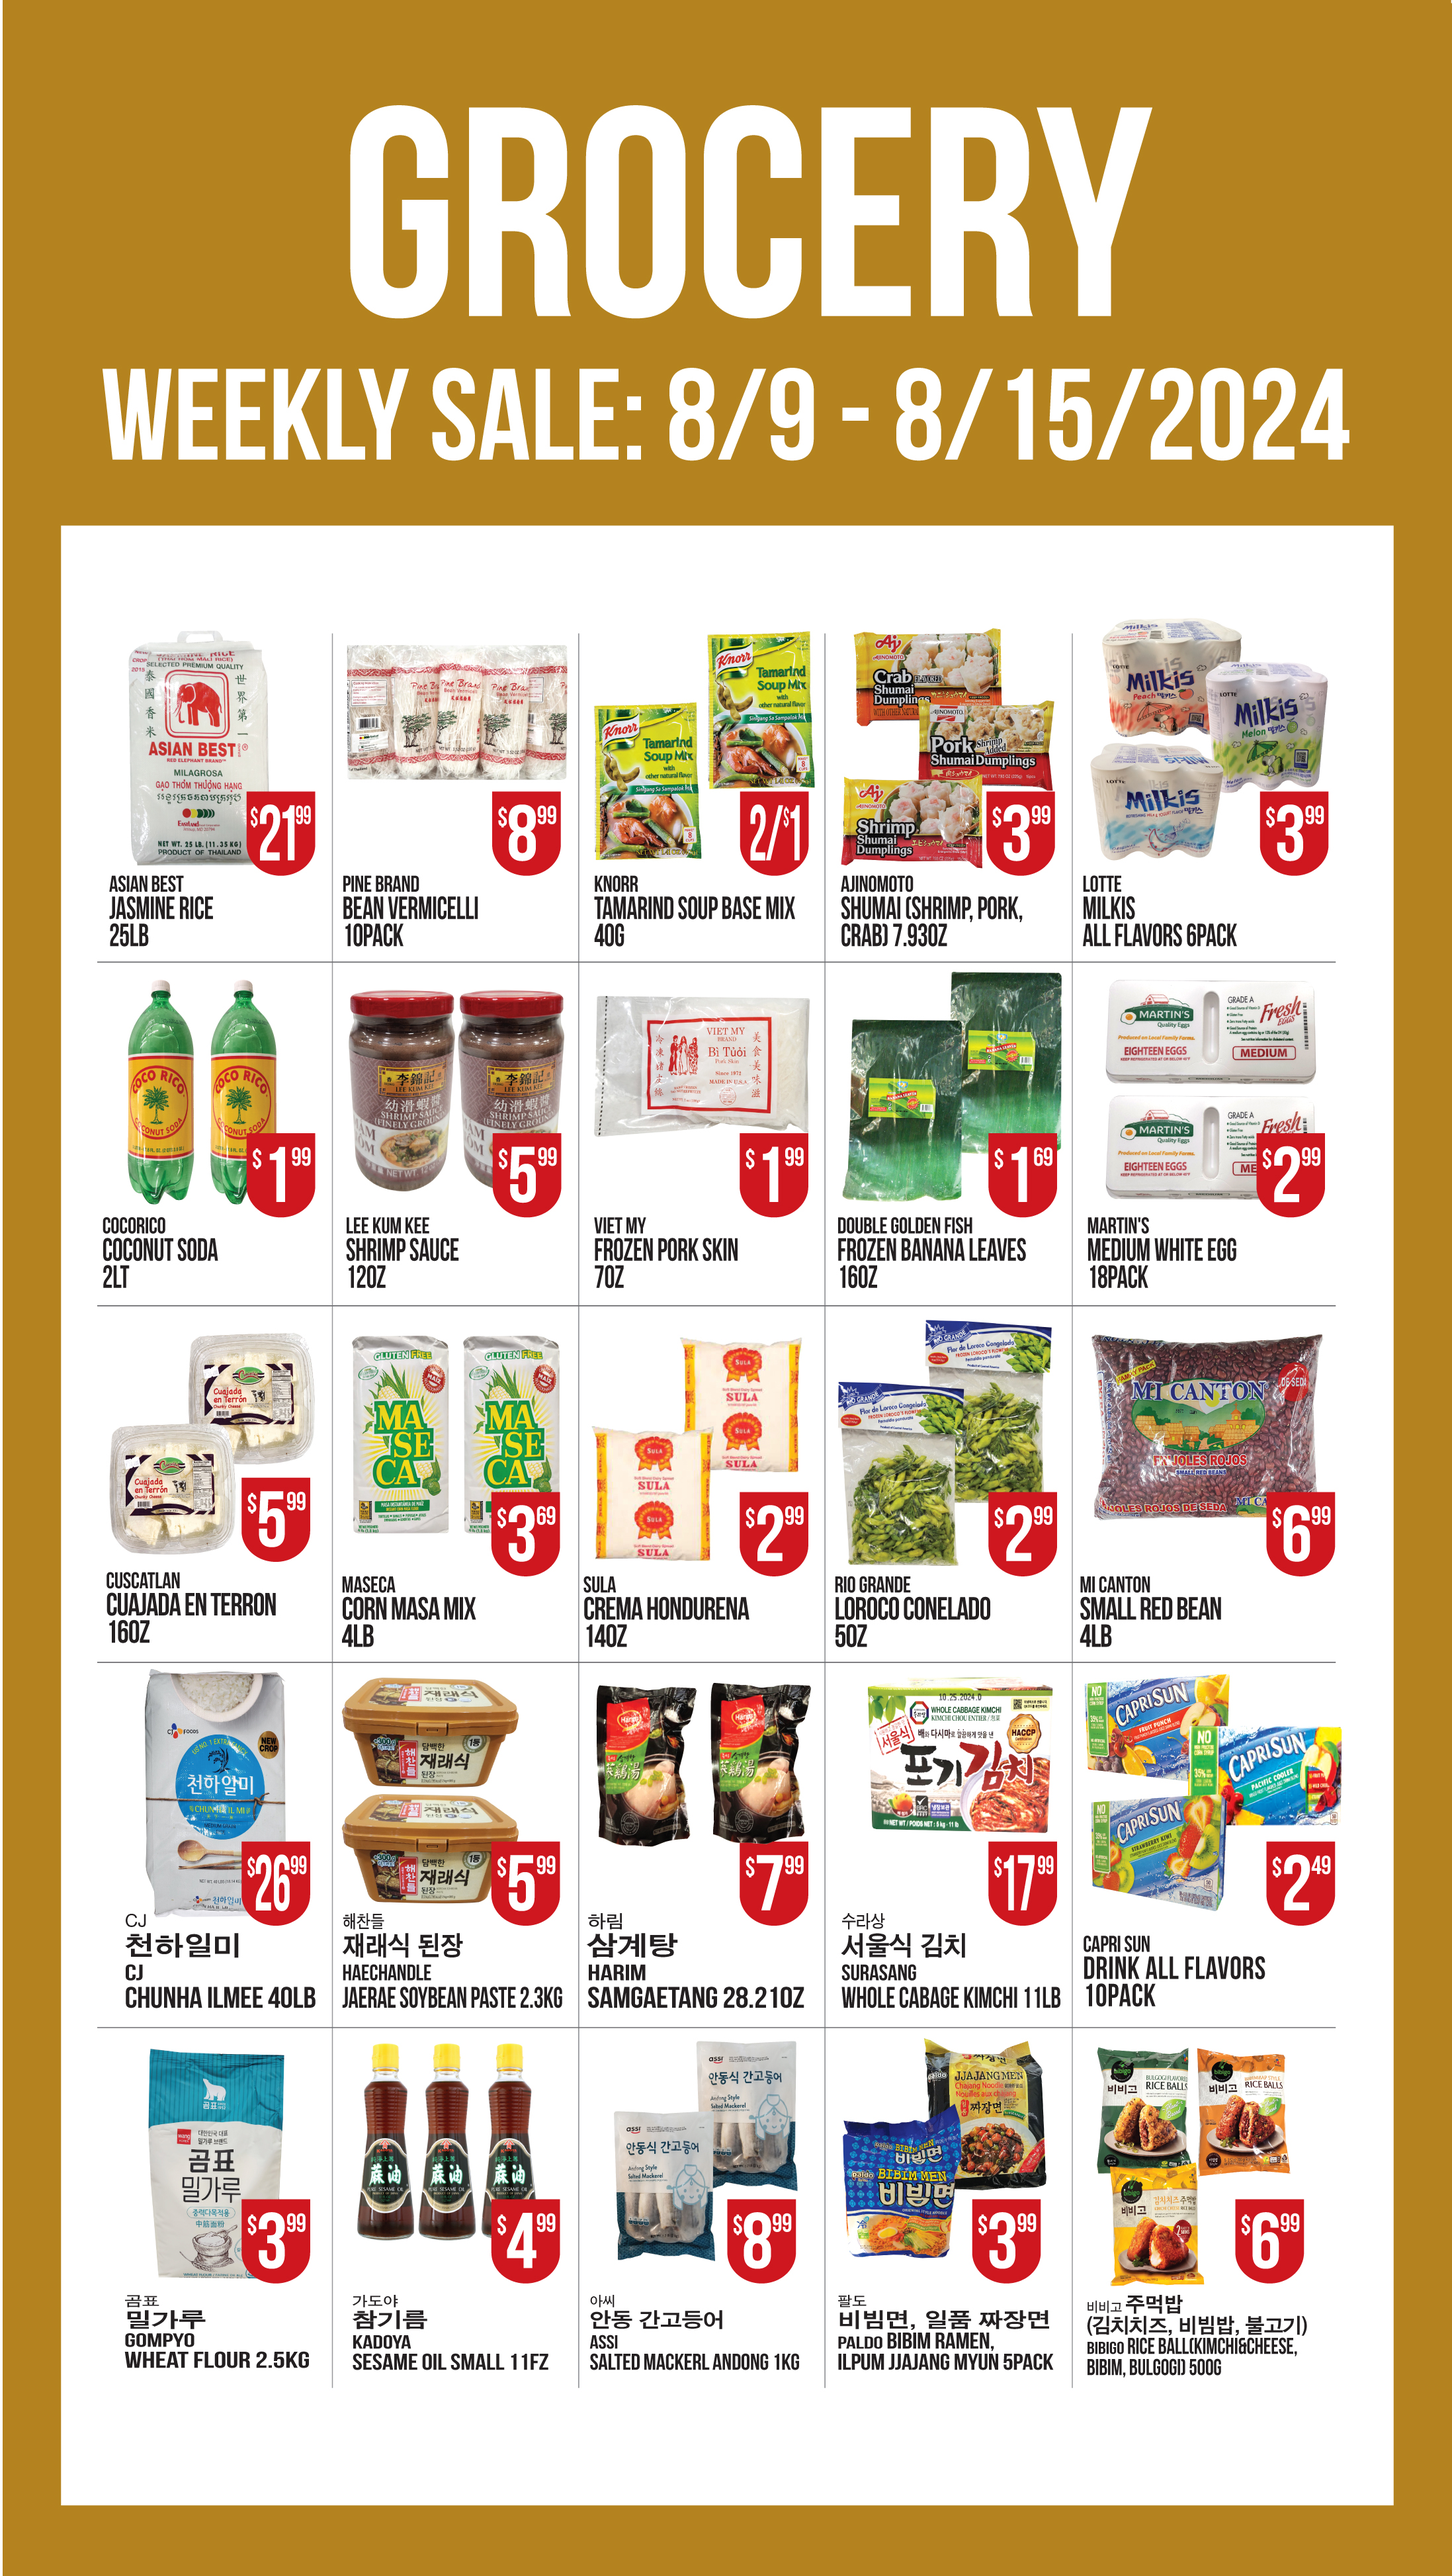
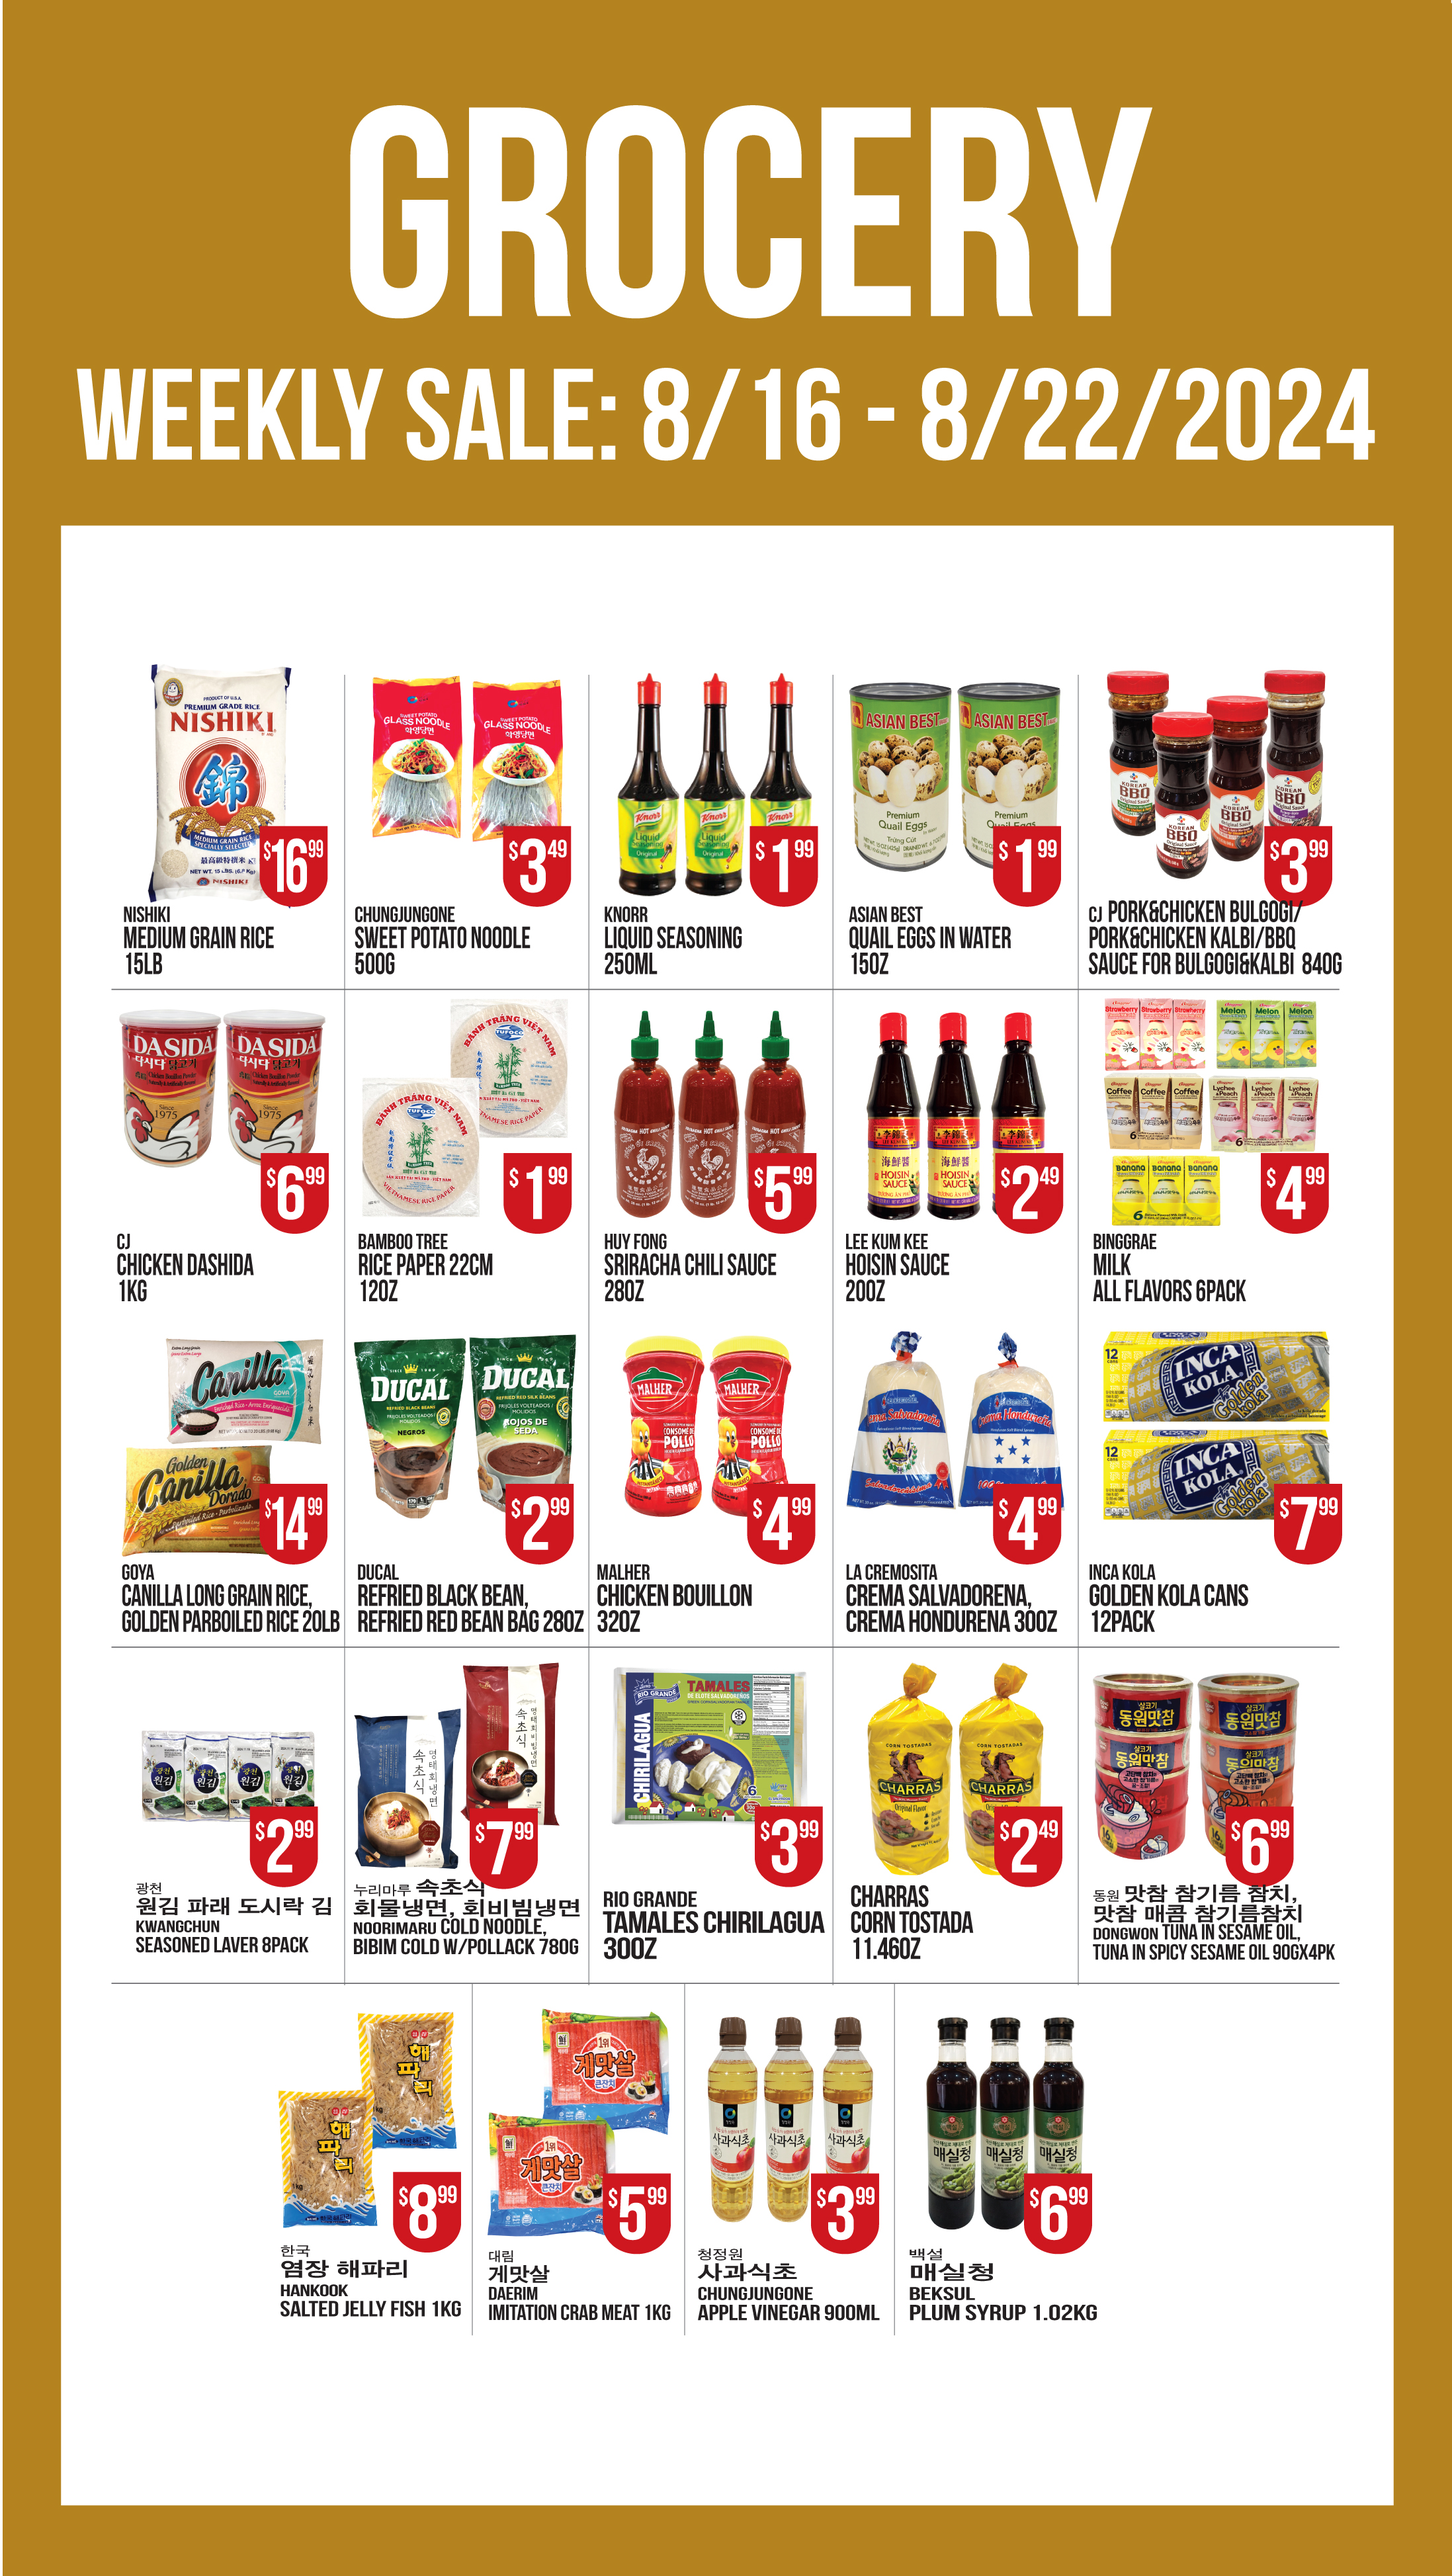
weekly deals

diff --git a/index.html b/index.html
@@ -64,16 +64,16 @@
           <img src="./public/assets/sp.jpg" class="d-block w-100 img-fluid" alt="...">
         </div> -->
         <div class="carousel-item center-carousel active">
-          <img src="./public/assets/weekly/meat.jpg?v=0809" class="img-fluid" alt="...">
+          <img src="./public/assets/weekly/meat.jpg?v=0816" class="img-fluid" alt="...">
         </div>
         <div class="carousel-item center-carousel">
-          <img src="./public/assets/weekly/veg.jpg?v=0809" class="img-fluid" alt="...">
+          <img src="./public/assets/weekly/veg.jpg?v=0816" class="img-fluid" alt="...">
         </div>
         <div class="carousel-item center-carousel">
-          <img src="./public/assets/weekly/fish.jpg?v=0809" class="img-fluid" alt="...">
+          <img src="./public/assets/weekly/fish.jpg?v=0816" class="img-fluid" alt="...">
         </div>
         <div class="carousel-item center-carousel">
-          <img src="./public/assets/weekly/grocery.jpg?v=0809" class="img-fluid" alt="...">
+          <img src="./public/assets/weekly/grocery.jpg?v=0816" class="img-fluid" alt="...">
         </div>
         <!-- <div class="carousel-item center-carousel">
           <img src="./public/assets/sale/grocery2.jpg?v=070623" class="img-fluid" alt="...">

diff --git a/deals.html b/deals.html
@@ -50,15 +50,15 @@
     <div class="row deal">
 
       <h2>English</h2>
-      <img class="img-fluid" src="./public/assets/weekly/english.jpg?v=080924">
+      <img class="img-fluid" src="./public/assets/weekly/english.jpg?v=0816">
 
       <br><br>
       <h2>Spanish</h2>
-      <img class="img-fluid" src="./public/assets/weekly/spanish.jpg?v=080924">
+      <img class="img-fluid" src="./public/assets/weekly/spanish.jpg?v=0816">
 
       <br>
       <h2>Korean</h2>
-      <img class="img-fluid" src="./public/assets/weekly/korean.jpg?v=080924">
+      <img class="img-fluid" src="./public/assets/weekly/korean.jpg?v=0816">
       <br>
       <br>
     </div>
